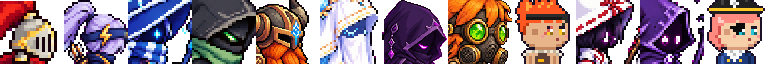
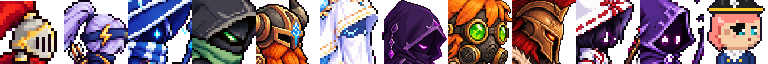
브란 일러스트 적용 (다른 영웅과 몸 비율 맞춤)
Claude-Session: https://claude.ai/code/session_01Fxb29UthuHm5NupsxcALjM

Changed region(s): [[0.6562, 0.0, 0.75, 1.0]]

diff --git a/index.html b/index.html
@@ -8,24 +8,24 @@
   <link rel="preconnect" href="https://fonts.googleapis.com">
   <link rel="preconnect" href="https://fonts.gstatic.com" crossorigin>
   <link href="https://fonts.googleapis.com/css2?family=Black+Han+Sans&family=Noto+Sans+KR:wght@400;700;900&display=swap" rel="stylesheet">
-  <link rel="stylesheet" href="style.css?v=202610221137">
-  <script>window.__ASSET_V = '202610221137';</script>
+  <link rel="stylesheet" href="style.css?v=202610231114">
+  <script>window.__ASSET_V = '202610231114';</script>
   <script type="importmap">
   {
     "imports": {
-      "./src/data.js": "./src/data.js?v=202610221137",
-      "./src/maps.js": "./src/maps.js?v=202610221137",
-      "./src/sim.js": "./src/sim.js?v=202610221137",
-      "./src/mapgen.js": "./src/mapgen.js?v=202610221137",
-      "./src/fx.js": "./src/fx.js?v=202610221137",
-      "./src/render.js": "./src/render.js?v=202610221137",
-      "./src/audio.js": "./src/audio.js?v=202610221137",
-      "./src/net.js": "./src/net.js?v=202610221137",
-      "./src/save.js": "./src/save.js?v=202610221137",
-      "./src/ui.js": "./src/ui.js?v=202610221137",
-      "./src/cloud.js": "./src/cloud.js?v=202610221137",
-      "./src/social.js": "./src/social.js?v=202610221137",
-      "./src/config.js": "./src/config.js?v=202610221137"
+      "./src/data.js": "./src/data.js?v=202610231114",
+      "./src/maps.js": "./src/maps.js?v=202610231114",
+      "./src/sim.js": "./src/sim.js?v=202610231114",
+      "./src/mapgen.js": "./src/mapgen.js?v=202610231114",
+      "./src/fx.js": "./src/fx.js?v=202610231114",
+      "./src/render.js": "./src/render.js?v=202610231114",
+      "./src/audio.js": "./src/audio.js?v=202610231114",
+      "./src/net.js": "./src/net.js?v=202610231114",
+      "./src/save.js": "./src/save.js?v=202610231114",
+      "./src/ui.js": "./src/ui.js?v=202610231114",
+      "./src/cloud.js": "./src/cloud.js?v=202610231114",
+      "./src/social.js": "./src/social.js?v=202610231114",
+      "./src/config.js": "./src/config.js?v=202610231114"
     }
   }
   </script>
@@ -45,6 +45,6 @@
     <div id="aug" hidden></div>
     <div id="menu" class="overlay"></div>
   </div>
-  <script type="module" src="./src/main.js?v=202610221137"></script>
+  <script type="module" src="./src/main.js?v=202610231114"></script>
 </body>
 </html>

diff --git a/src/data.js b/src/data.js
@@ -325,7 +325,7 @@ export const GACHA = { luckPer: 0.06, pity: 45, jackpot: 0.04, jackpotGold: [110
 export const HERO_SPRITE = { size: 48, draw: 72, frames: 16, portrait: 64 };
 // 직접 그려 온 촘촘한 도트는 영웅마다 따로 (한 줄 16칸, 칸 크기 cell, 화면 배율 scale). 발끝은 칸 아래에서 2칸 위
 // 기본 도트(heroes.png)를 쓰는 영웅의 화면 크기 배율 (일러스트 영웅들과 키를 맞춤)
-export const HERO_SIZE = { knight: 1.25, berserker: 1.2, pirate: 1.2 };
+export const HERO_SIZE = { knight: 1.25, pirate: 1.2 };
 export const HERO_SHEETS = {
   archer: { file: 'hero_archer.png', cell: 72, scale: 1.12 },
   mage: { file: 'hero_mage.png', cell: 104, scale: 0.78 },
@@ -336,6 +336,7 @@ export const HERO_SHEETS = {
   sniper: { file: 'hero_sniper.png', cell: 176, scale: 0.5 },
   guardian: { file: 'hero_guardian.png', cell: 160, scale: 0.5 },
   alchemist: { file: 'hero_alchemist.png', cell: 216, scale: 0.34 },
+  berserker: { file: 'hero_berserker.png', cell: 232, scale: 0.4 },
 };
 
 // ---------- 적 (assets/enemies.png 24x24: 종류마다 [걷기1, 걷기2, 쓰러짐]) ----------

diff --git a/tools/hero_art.py b/tools/hero_art.py
@@ -657,6 +657,9 @@ HEROES['berserker'] = dict(
         '..........RrrrRu.',
     ], pivot=(2, 2)),
     kind='heavy', legs=('p', 'o', 'O'), arm='s', glove='A', reach=4,
+    # 직접 그려 온 도트 (tools/art/src/berserker.png → import_sprite.py 4.75 "" defringe). 불타는 도끼 머리만 손을 축으로 휘두름
+    sprite=dict(file='tools/art/berserker.png', cell=232, scale=0.4, weapon_from=(161, 85), pivot=(152, 135), legs=(176, 108), face=(100, 30, 64),
+                ang=dict(rest=0, windup=-35, strike=25, follow=12, hurt=8, win=-25)),
 )
 
 # =====================================================================
